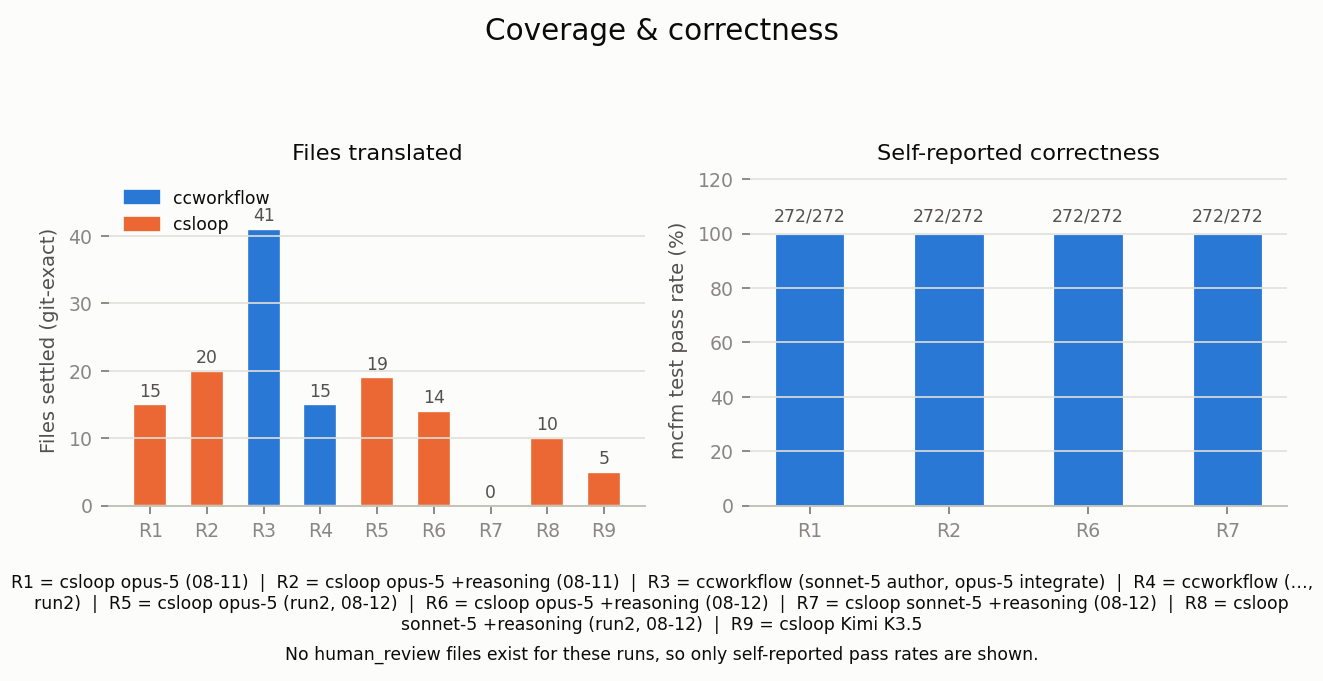
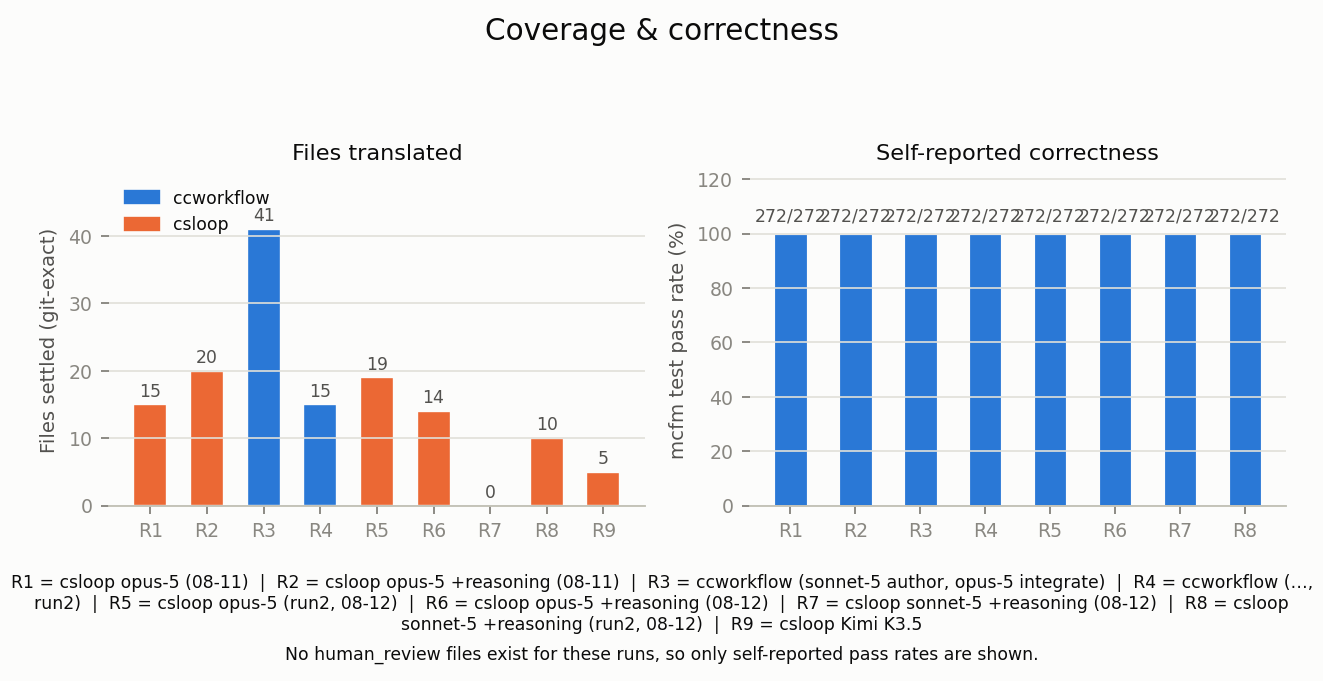
update evals

diff --git a/evals/analysis/parse_coverage.py b/evals/analysis/parse_coverage.py
@@ -14,7 +14,20 @@ Everything here is derived from the actual log text, not hardcoded:
 import re
 from pathlib import Path
 
-SELF_REPORT_RE = re.compile(r"(\d+)\s*/\s*(\d+)\D{0,20}PASS(?:ED)?", re.I)
+# Two ways a run's log states its self-reported pass fraction:
+#  - "pass(es) [rate] N/M" - the number follows the word (this is the literal
+#    phrasing of the jobrunner tool's own "SUMMARY: pass rate N/M" output,
+#    which agent logs usually quote directly or paraphrase as "passes N/M").
+#  - "N/M ... PASS(ED)" - the number precedes the word, within a short window
+#    (used for terser phrasings like "272/272 PASSED").
+# A single fixed-width \D{0,N} window in either direction alone isn't enough:
+# too narrow misses real summaries buried in a longer sentence; too wide
+# starts pairing a number with an unrelated PASS mentioned paragraphs later.
+SELF_REPORT_RE = re.compile(
+    r"\bpass(?:es)?(?:\s+rate)?\s*[:\-]?\s*(\d+)\s*/\s*(\d+)"
+    r"|(\d+)\s*/\s*(\d+)\D{0,20}PASS(?:ED)?",
+    re.I,
+)
 VERIFIED_RE = re.compile(r"SUMMARY:\s*pass rate\s*(\d+)\s*/\s*(\d+)", re.I)
 CHECKED_RE = re.compile(r"^\s*-\s*\[x\]", re.I | re.M)
 UNCHECKED_RE = re.compile(r"^\s*-\s*\[ \]", re.M)
@@ -47,9 +60,11 @@ def coverage_for_run(run_dir):
         text = _read(agent_log_path)
         settled = len(CHECKED_RE.findall(text))
         open_items = len(UNCHECKED_RE.findall(text))
-        matches = SELF_REPORT_RE.findall(text)
+        matches = list(SELF_REPORT_RE.finditer(text))
         if matches:
-            n, m = matches[-1]
+            last = matches[-1]
+            n = last.group(1) or last.group(3)
+            m = last.group(2) or last.group(4)
             self_reported = (int(n), int(m))
 
     human_verified = None

diff --git a/evals/analysis/summary_tables.md b/evals/analysis/summary_tables.md
@@ -55,12 +55,12 @@
 |---|---|---|
 | csloop opus-5 (08-11) | stopped-at-gate | 272/272 |
 | csloop opus-5 +reasoning (08-11) | stopped-at-gate | 272/272 |
-| ccworkflow (sonnet-5 author, opus-5 integrate) | stopped-at-gate | — |
-| ccworkflow (sonnet-5 author, opus-5 integrate, run2) | stopped-at-gate | — |
-| csloop opus-5 (run2, 08-12) | stopped-at-gate | — |
+| ccworkflow (sonnet-5 author, opus-5 integrate) | stopped-at-gate | 272/272 |
+| ccworkflow (sonnet-5 author, opus-5 integrate, run2) | stopped-at-gate | 272/272 |
+| csloop opus-5 (run2, 08-12) | stopped-at-gate | 272/272 |
 | csloop opus-5 +reasoning (08-12) | stopped-at-gate | 272/272 |
 | csloop sonnet-5 +reasoning (08-12) | stopped-at-gate | 272/272 |
-| csloop sonnet-5 +reasoning (run2, 08-12) | stopped-at-gate | — |
+| csloop sonnet-5 +reasoning (run2, 08-12) | stopped-at-gate | 272/272 |
 | csloop Kimi K3.5 | stopped-at-gate | — |
 
 ## Which src/ module each run translated files from (git-exact)
